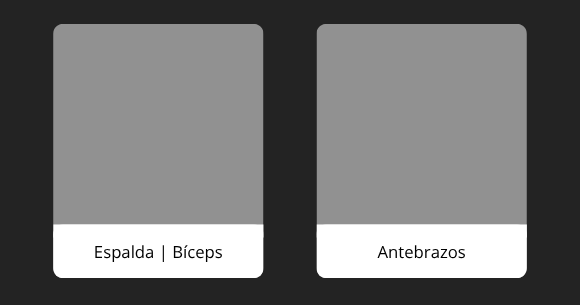
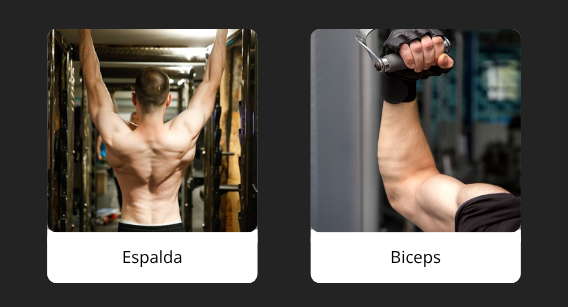
.

diff --git a/src/app/components/main/main.component.html b/src/app/components/main/main.component.html
@@ -21,27 +21,27 @@
                 <div id="desktopCarousel" class="carousel slide" data-bs-ride="carousel">
                     <div class="carousel-inner text-center">
                         <div class="carousel-item active">
-                            <img src="assets/carrusel/Pecho.png" alt="Primera foto rutina">
+                            <img src="assets/carrusel/Dia1_pc.png" alt="Primera foto rutina">
                         </div>
 
                         <div class="carousel-item">
-                            <img src="assets/carrusel/Piernas.png" alt="Segunda foto rutina">
+                            <img src="assets/carrusel/Dia2_pc.png" alt="Segunda foto rutina">
                         </div>
 
                         <div class="carousel-item">
-                            <img src="assets/carrusel/Espalda.png" alt="Tercera foto rutina">
+                            <img src="assets/carrusel/Dia3_pc.png" alt="Tercera foto rutina">
                         </div>
 
                         <div class="carousel-item">
-                            <img src="assets/carrusel/Pecho_2.png" alt="Cuarta foto rutina">
+                            <img src="assets/carrusel/Dia4_pc.png" alt="Cuarta foto rutina">
                         </div>
 
                         <div class="carousel-item">
-                            <img src="assets/carrusel/Piernas_2.png" alt="Quinta foto rutina">
+                            <img src="assets/carrusel/Dia5_pc.png" alt="Quinta foto rutina">
                         </div>
 
                         <div class="carousel-item">
-                            <img src="assets/carrusel/Espalda_2.png" alt="Sexta foto rutina">
+                            <img src="assets/carrusel/Dia6_pc.png" alt="Sexta foto rutina">
                         </div>
                     </div>
 

diff --git a/src/app/components/main/main.component.scss b/src/app/components/main/main.component.scss
@@ -156,7 +156,8 @@ $accent-color: #ee7823;
 
   img {
     width: 100%;
-    height: auto;
+    height: 200px;
+    object-fit: cover;
     border-bottom: 2px solid white;
   }
 
